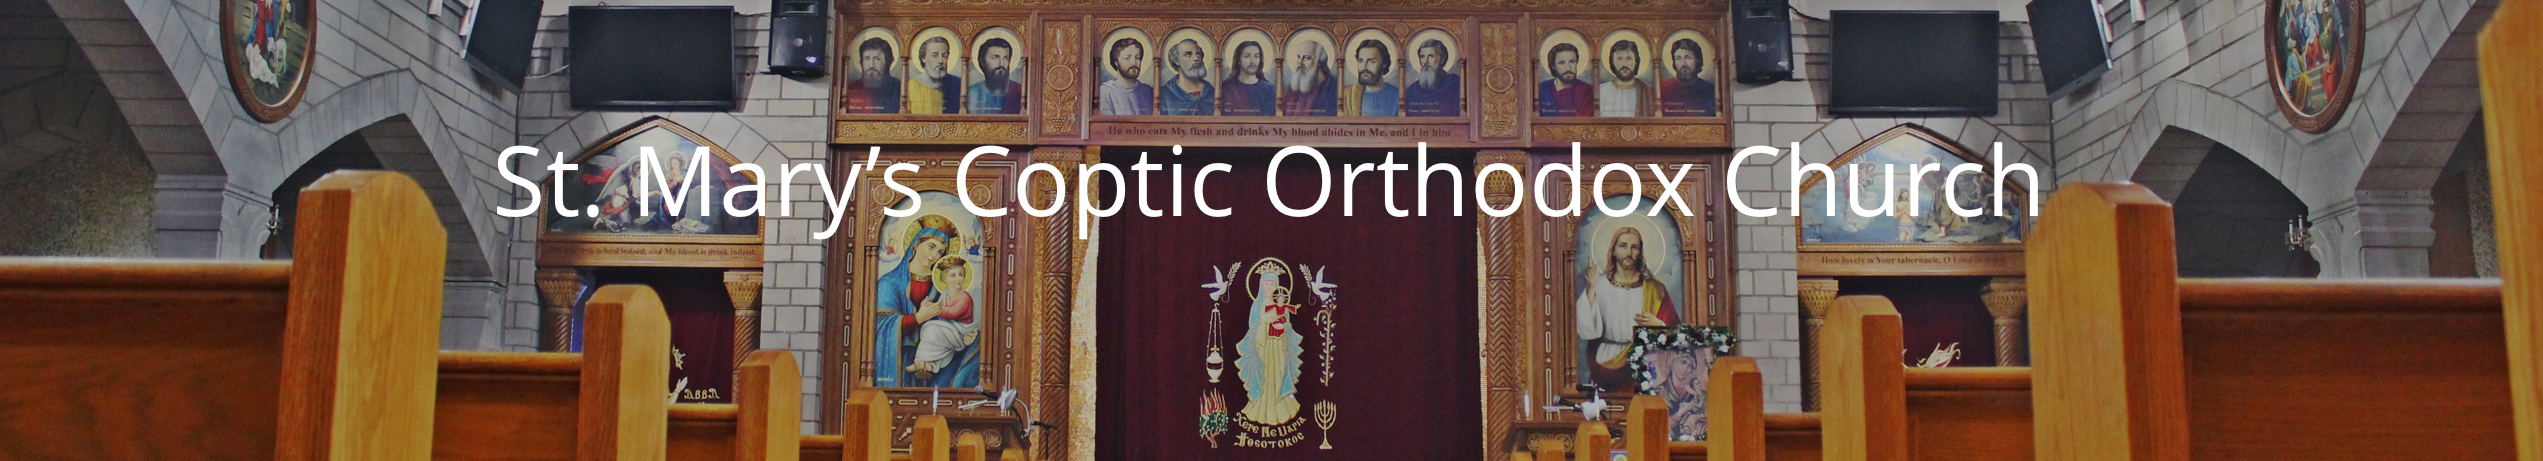
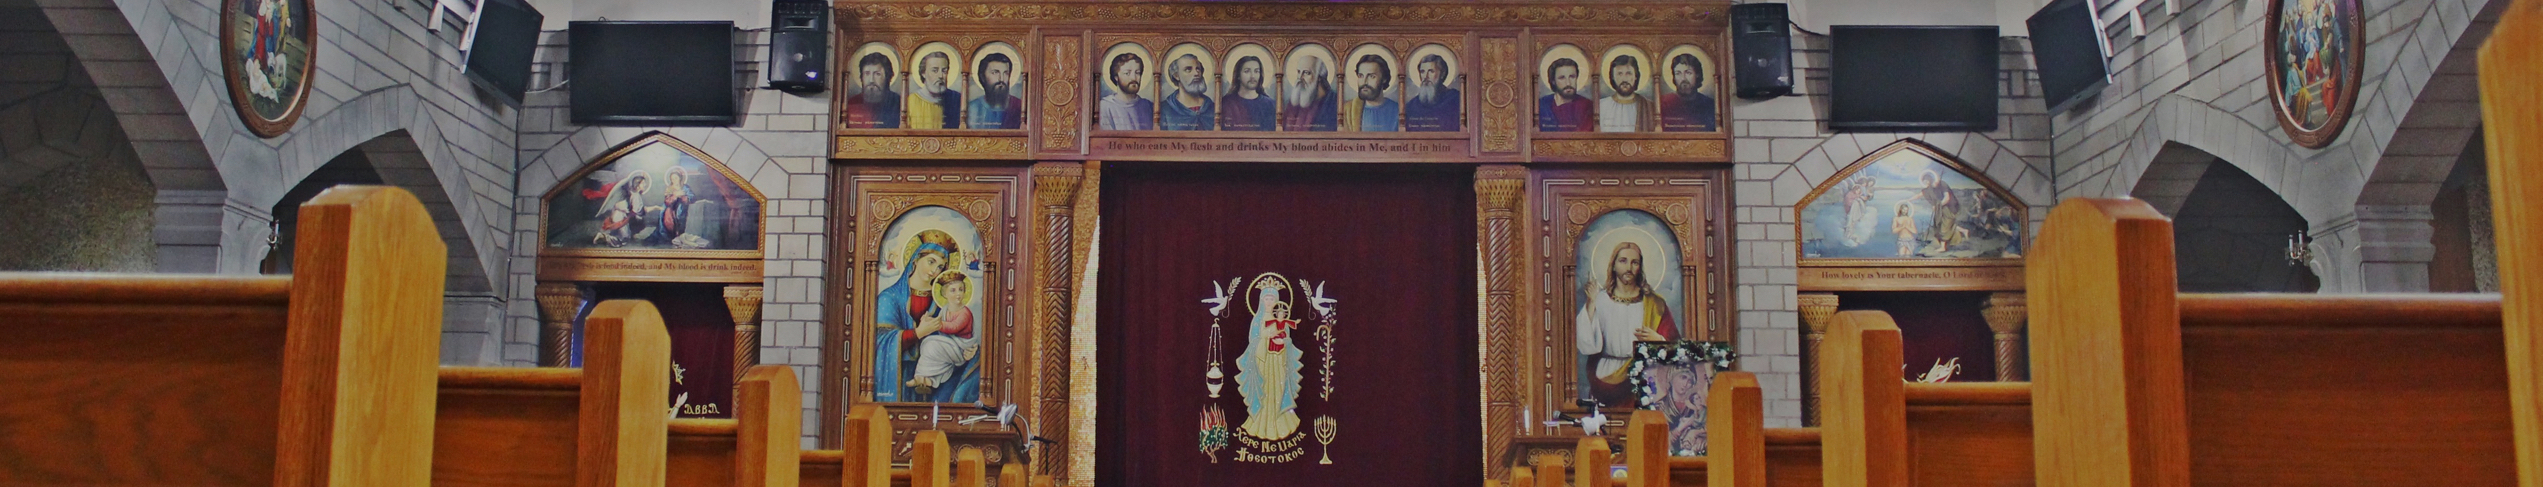
update church website

diff --git a/ChurchWebsite/css/clean-blog.min.css b/ChurchWebsite/css/clean-blog.min.css
@@ -2,4 +2,4 @@
  * Start Bootstrap - Clean Blog v1.1.0 (http://startbootstrap.com/template-overviews/clean-blog)
  * Copyright 2013-2016 Start Bootstrap
  * Licensed under MIT (https://github.com/BlackrockDigital/startbootstrap/blob/gh-pages/LICENSE)
-*/ a,body{color:#333}.navbar-custom .nav li a,.navbar-custom .navbar-brand,h1,h2,h3,h4,h5,h6{font-weight:800}.caption,.intro-header .page-heading,.intro-header .site-heading,footer .copyright{text-align:center}body{font-family:Lora,'Times New Roman',serif;font-size:20px;-webkit-tap-highlight-color:#0085A1}.intro-header .page-heading .subheading,.intro-header .post-heading .subheading,.intro-header .site-heading .subheading,.navbar-custom,h1,h2,h3,h4,h5,h6{font-family:'Open Sans', 'Helvetica Neue',Helvetica,Arial,sans-serif}p{line-height:1.5;margin:30px 0}p a{text-decoration:underline}a:focus,a:hover{color:#0085A1}a img:focus,a img:hover{cursor:zoom-in}blockquote{color:#777;font-style:italic}hr.small{max-width:100px;margin:15px auto;border-width:4px;border-color:#fff}.navbar-custom{position:absolute;top:0;left:0;width:100%;z-index:3}.navbar-custom .navbar-header .navbar-toggle{color:#777;font-weight:800;text-transform:uppercase;font-size:12px}.navbar-custom .nav li a{text-transform:uppercase;font-size:12px;letter-spacing:1px}@media only screen and (min-width:768px){.navbar-custom{background:0 0;border-bottom:1px solid transparent}.navbar-custom .navbar-brand{color:#fff;padding:20px}.navbar-custom .navbar-brand:focus,.navbar-custom .navbar-brand:hover{color:rgba(255,255,255,.8)}.navbar-custom .nav li a{color:#fff;padding:20px}.navbar-custom .nav li a:focus,.navbar-custom .nav li a:hover{color:rgba(255,255,255,.8)}}@media only screen and (min-width:1170px){.navbar-custom{-webkit-transition:background-color .3s;-moz-transition:background-color .3s;transition:background-color .3s;-webkit-transform:translate3d(0,0,0);-moz-transform:translate3d(0,0,0);-ms-transform:translate3d(0,0,0);-o-transform:translate3d(0,0,0);transform:translate3d(0,0,0);-webkit-backface-visibility:hidden;backface-visibility:hidden}.navbar-custom.is-fixed{position:fixed;top:-61px;background-color:rgba(255,255,255,.9);border-bottom:1px solid #f2f2f2;-webkit-transition:-webkit-transform .3s;-moz-transition:-moz-transform .3s;transition:transform .3s}.navbar-custom.is-fixed .navbar-brand{color:#333}.navbar-custom.is-fixed .navbar-brand:focus,.navbar-custom.is-fixed .navbar-brand:hover{color:#0085A1}.navbar-custom.is-fixed .nav li a{color:#333}.navbar-custom.is-fixed .nav li a:focus,.navbar-custom.is-fixed .nav li a:hover{color:#0085A1}.navbar-custom.is-visible{-webkit-transform:translate3d(0,100%,0);-moz-transform:translate3d(0,100%,0);-ms-transform:translate3d(0,100%,0);-o-transform:translate3d(0,100%,0);transform:translate3d(0,100%,0)}}.intro-header{background:center center no-repeat;-webkit-background-size:cover;-moz-background-size:cover;background-size:cover;-o-background-size:cover;margin-bottom:50px}.intro-header .page-heading,.intro-header .post-heading,.intro-header .site-heading{padding:100px 0 50px;color:#fff}.intro-header .page-heading h1,.intro-header .site-heading h1{margin-top:0;font-size:50px}.intro-header .page-heading .subheading,.intro-header .site-heading .subheading{font-size:24px;line-height:1.1;display:block;font-weight:300;margin:10px 0 0}@media only screen and (min-width:768px){.intro-header .page-heading,.intro-header .post-heading,.intro-header .site-heading{padding:150px 0}.intro-header .page-heading h1,.intro-header .site-heading h1{font-size:80px}}.intro-header .post-heading h1{font-size:35px}.intro-header .post-heading .meta,.intro-header .post-heading .subheading{line-height:1.1;display:block}.intro-header .post-heading .subheading{font-size:24px;margin:10px 0 30px;font-weight:600}.intro-header .post-heading .meta{font-family:Lora,'Times New Roman',serif;font-style:italic;font-weight:300;font-size:20px}.intro-header .post-heading .meta a{color:#fff}@media only screen and (min-width:768px){.intro-header .post-heading h1{font-size:55px}.intro-header .post-heading .subheading{font-size:30px}}.post-preview>a{color:#333}.post-preview>a:focus,.post-preview>a:hover{text-decoration:none;color:#0085A1}.post-preview>a>.post-title{font-size:30px;margin-top:30px;margin-bottom:10px}.post-preview>a>.post-subtitle{margin:0 0 10px;font-weight:300}.post-preview>.post-meta{color:#777;font-size:18px;font-style:italic;margin-top:0}.post-preview>.post-meta>a{text-decoration:none;color:#333}.post-preview>.post-meta>a:focus,.post-preview>.post-meta>a:hover{color:#0085A1;text-decoration:underline}@media only screen and (min-width:768px){.post-preview>a>.post-title{font-size:36px}}.section-heading{font-size:36px;margin-top:60px;font-weight:700}.btn,.pager li>a,.pager li>span{font-family:'Open Sans','Helvetica Neue',Helvetica,Arial,sans-serif;text-transform:uppercase;font-weight:800;letter-spacing:1px}.caption{font-size:14px;padding:10px;font-style:italic;margin:0;display:block;border-bottom-right-radius:5px;border-bottom-left-radius:5px}footer{padding:50px 0 65px}footer .list-inline{margin:0;padding:0}footer .copyright{font-size:14px;margin-bottom:0}.floating-label-form-group{font-size:14px;position:relative;margin-bottom:0;padding-bottom:.5em;border-bottom:1px solid #eee}.floating-label-form-group input,.floating-label-form-group textarea{z-index:1;position:relative;padding-right:0;padding-left:0;border:none;border-radius:0;font-size:1.5em;background:0 0;box-shadow:none!important;resize:none}.floating-label-form-group label{display:block;z-index:0;position:relative;top:2em;margin:0;font-size:.85em;line-height:1.764705882em;vertical-align:middle;vertical-align:baseline;opacity:0;-webkit-transition:top .3s ease,opacity .3s ease;-moz-transition:top .3s ease,opacity .3s ease;-ms-transition:top .3s ease,opacity .3s ease;transition:top .3s ease,opacity .3s ease}.floating-label-form-group::not(:first-child){padding-left:14px;border-left:1px solid #eee}.floating-label-form-group-with-value label{top:0;opacity:1}.floating-label-form-group-with-focus label{color:#0085A1}form .row:first-child .floating-label-form-group{border-top:1px solid #eee}.btn{font-size:14px;border-radius:0;padding:15px 25px}.btn-lg{font-size:16px;padding:25px 35px}.btn-default:focus,.btn-default:hover{background-color:#0085A1;border:1px solid #0085A1;color:#fff}.pager{margin:20px 0 0}.pager li>a,.pager li>span{font-size:14px;padding:15px 25px;background-color:#fff;border-radius:0}.pager li>a:focus,.pager li>a:hover{color:#fff;background-color:#0085A1;border:1px solid #0085A1}.pager .disabled>a,.pager .disabled>a:focus,.pager .disabled>a:hover,.pager .disabled>span{color:#777;background-color:#333;cursor:not-allowed}::-moz-selection{color:#fff;text-shadow:none;background:#0085A1}::selection{color:#fff;text-shadow:none;background:#0085A1}img::selection{color:#fff;background:0 0}img::-moz-selection{color:#fff;background:0 0}
+*/ a,body{color:#333}.navbar-custom .nav li a,.navbar-custom .navbar-brand,h1,h2,h3,h4,h5,h6{font-weight:800}.caption,.intro-header .page-heading,.intro-header .site-heading,footer .copyright{text-align:center}body{font-family:Lora,'Times New Roman',serif;font-size:20px;-webkit-tap-highlight-color:#0085A1}.intro-header .page-heading .subheading,.intro-header .post-heading .subheading,.intro-header .site-heading .subheading,.navbar-custom,h1,h2,h3,h4,h5,h6{font-family:'Raleway', 'Helvetica Neue',Helvetica,Arial,sans-serif}p{line-height:1.5;margin:30px 0}p a{text-decoration:underline}a:focus,a:hover{color:#0085A1}a img:focus,a img:hover{cursor:zoom-in}blockquote{color:#777;font-style:italic}hr.small{max-width:100px;margin:15px auto;border-width:4px;border-color:#fff}.navbar-custom{position:absolute;top:0;left:0;width:100%;z-index:3}.navbar-custom .navbar-header .navbar-toggle{color:#777;font-weight:800;text-transform:uppercase;font-size:12px}.navbar-custom .nav li a{text-transform:uppercase;font-size:12px;letter-spacing:1px}@media only screen and (min-width:768px){.navbar-custom{background:0 0;border-bottom:1px solid transparent}.navbar-custom .navbar-brand{color:#fff;padding:20px}.navbar-custom .navbar-brand:focus,.navbar-custom .navbar-brand:hover{color:rgba(255,255,255,.8)}.navbar-custom .nav li a{color:#fff;padding:20px}.navbar-custom .nav li a:focus,.navbar-custom .nav li a:hover{color:rgba(255,255,255,.8)}}@media only screen and (min-width:1170px){.navbar-custom{-webkit-transition:background-color .3s;-moz-transition:background-color .3s;transition:background-color .3s;-webkit-transform:translate3d(0,0,0);-moz-transform:translate3d(0,0,0);-ms-transform:translate3d(0,0,0);-o-transform:translate3d(0,0,0);transform:translate3d(0,0,0);-webkit-backface-visibility:hidden;backface-visibility:hidden}.navbar-custom.is-fixed{position:fixed;top:-61px;background-color:rgba(255,255,255,.9);border-bottom:1px solid #f2f2f2;-webkit-transition:-webkit-transform .3s;-moz-transition:-moz-transform .3s;transition:transform .3s}.navbar-custom.is-fixed .navbar-brand{color:#333}.navbar-custom.is-fixed .navbar-brand:focus,.navbar-custom.is-fixed .navbar-brand:hover{color:#0085A1}.navbar-custom.is-fixed .nav li a{color:#333}.navbar-custom.is-fixed .nav li a:focus,.navbar-custom.is-fixed .nav li a:hover{color:#0085A1}.navbar-custom.is-visible{-webkit-transform:translate3d(0,100%,0);-moz-transform:translate3d(0,100%,0);-ms-transform:translate3d(0,100%,0);-o-transform:translate3d(0,100%,0);transform:translate3d(0,100%,0)}}.intro-header{background:center center no-repeat;-webkit-background-size:cover;-moz-background-size:cover;background-size:cover;-o-background-size:cover;margin-bottom:50px}.intro-header .page-heading,.intro-header .post-heading,.intro-header .site-heading{padding:100px 0 50px;color:#fff}.intro-header .page-heading h1,.intro-header .site-heading h1{margin-top:0;font-size:50px}.intro-header .page-heading .subheading,.intro-header .site-heading .subheading{font-size:24px;line-height:1.1;display:block;font-weight:300;margin:10px 0 0}@media only screen and (min-width:768px){.intro-header .page-heading,.intro-header .post-heading,.intro-header .site-heading{padding:150px 0}.intro-header .page-heading h1,.intro-header .site-heading h1{font-size:80px}}.intro-header .post-heading h1{font-size:35px}.intro-header .post-heading .meta,.intro-header .post-heading .subheading{line-height:1.1;display:block}.intro-header .post-heading .subheading{font-size:24px;margin:10px 0 30px;font-weight:600}.intro-header .post-heading .meta{font-family:Lora,'Times New Roman',serif;font-style:italic;font-weight:300;font-size:20px}.intro-header .post-heading .meta a{color:#fff}@media only screen and (min-width:768px){.intro-header .post-heading h1{font-size:55px}.intro-header .post-heading .subheading{font-size:30px}}.post-preview>a{color:#333}.post-preview>a:focus,.post-preview>a:hover{text-decoration:none;color:#0085A1}.post-preview>a>.post-title{font-size:30px;margin-top:30px;margin-bottom:10px}.post-preview>a>.post-subtitle{margin:0 0 10px;font-weight:300}.post-preview>.post-meta{color:#777;font-size:18px;font-style:italic;margin-top:0}.post-preview>.post-meta>a{text-decoration:none;color:#333}.post-preview>.post-meta>a:focus,.post-preview>.post-meta>a:hover{color:#0085A1;text-decoration:underline}@media only screen and (min-width:768px){.post-preview>a>.post-title{font-size:36px}}.section-heading{font-size:36px;margin-top:60px;font-weight:700}.btn,.pager li>a,.pager li>span{font-family:'Open Sans','Helvetica Neue',Helvetica,Arial,sans-serif;text-transform:uppercase;font-weight:800;letter-spacing:1px}.caption{font-size:14px;padding:10px;font-style:italic;margin:0;display:block;border-bottom-right-radius:5px;border-bottom-left-radius:5px}footer{padding:50px 0 65px}footer .list-inline{margin:0;padding:0}footer .copyright{font-size:14px;margin-bottom:0}.floating-label-form-group{font-size:14px;position:relative;margin-bottom:0;padding-bottom:.5em;border-bottom:1px solid #eee}.floating-label-form-group input,.floating-label-form-group textarea{z-index:1;position:relative;padding-right:0;padding-left:0;border:none;border-radius:0;font-size:1.5em;background:0 0;box-shadow:none!important;resize:none}.floating-label-form-group label{display:block;z-index:0;position:relative;top:2em;margin:0;font-size:.85em;line-height:1.764705882em;vertical-align:middle;vertical-align:baseline;opacity:0;-webkit-transition:top .3s ease,opacity .3s ease;-moz-transition:top .3s ease,opacity .3s ease;-ms-transition:top .3s ease,opacity .3s ease;transition:top .3s ease,opacity .3s ease}.floating-label-form-group::not(:first-child){padding-left:14px;border-left:1px solid #eee}.floating-label-form-group-with-value label{top:0;opacity:1}.floating-label-form-group-with-focus label{color:#0085A1}form .row:first-child .floating-label-form-group{border-top:1px solid #eee}.btn{font-size:14px;border-radius:0;padding:15px 25px}.btn-lg{font-size:16px;padding:25px 35px}.btn-default:focus,.btn-default:hover{background-color:#0085A1;border:1px solid #0085A1;color:#fff}.pager{margin:20px 0 0}.pager li>a,.pager li>span{font-size:14px;padding:15px 25px;background-color:#fff;border-radius:0}.pager li>a:focus,.pager li>a:hover{color:#fff;background-color:#0085A1;border:1px solid #0085A1}.pager .disabled>a,.pager .disabled>a:focus,.pager .disabled>a:hover,.pager .disabled>span{color:#777;background-color:#333;cursor:not-allowed}::-moz-selection{color:#fff;text-shadow:none;background:#0085A1}::selection{color:#fff;text-shadow:none;background:#0085A1}img::selection{color:#fff;background:0 0}img::-moz-selection{color:#fff;background:0 0}

diff --git a/ChurchWebsite/css/styleother.css b/ChurchWebsite/css/styleother.css
@@ -21,12 +21,23 @@
 }
 
 .banner{
-    width:100%
+    width:100%;
+    position:relative;
 }
 
 .navbar-mine{
     font-family:'Open Sans','Helvetica Neue',Helvetica,Arial,sans-serif;
     font-size: 15px;
+}
+
+.page-title {
+    font-size:4.5vw; 
+    width: 68vw;
+    font-family: 'Poiret One', cursive;
+    color:white; 
+    position: absolute; 
+    top:5vh;
+    left: 16vw;
 }
 
 body {
@@ -38,5 +49,24 @@ body {
         padding-left: 10px !important;
         padding-right: 10px !important;
     }
+}
+
+@media(max-width: 900px) {
+    .page-title {
+        top:2vh;
+}
+}
+
+
+@media(max-width: 600px) {
+    .page-title {
+        top:1vh;
+}
+}
+
+@media(max-width: 400px) {
+    .page-title {
+        top:0px;
+}
 }
 

diff --git a/ChurchWebsite/index.html b/ChurchWebsite/index.html
@@ -82,7 +82,7 @@
         <img src="img/mainphoto.jpg" alt="">
         </div>
         <div class = "back-over">
-            <span class = "open-title animate fadeInUp one"><span class="back-text">St. Mary's Coptic Orthodox Church Pittsburgh, PA</span></span>
+            <span class = "open-title animate fadeInUp one"><strong class = "back-text">St. Mary's Coptic Orthodox Church Pittsburgh, PA</strong></span>
         </div>
     </div>    
         

diff --git a/ChurchWebsite/css/style.css b/ChurchWebsite/css/style.css
@@ -130,7 +130,7 @@ html,body
 }
 
 .back-text {
-    opacity: .80 !important;
+    opacity: .80;
 }
 
 .open-title {
@@ -143,7 +143,7 @@ html,body
     height: 30%;
     margin: auto;
     color: white;
-    font-family: 'Open Sans', cursive;
+    font-family: 'Poiret One', cursive;
     font-size: 5.5vw;
     width: 90vw;
 }

diff --git a/ChurchWebsite/about.html b/ChurchWebsite/about.html
@@ -35,7 +35,9 @@
 
     <!-- Navigation -->
     <div>
+        
         <img class = "banner" src = "img/mainphotodark.jpg">
+        <p class="page-title"><strong>St. Mary's Coptic Orthodox Church</strong></p>
     </div>
     
     <nav class="navbar navbar-default navbar-mine">
